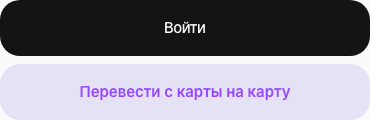
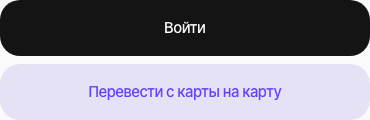
Match secondary button typography and direction background to Figma

Changed region(s): [[0.2081, 0.7, 0.8027, 0.85]]

diff --git a/src/styles.css b/src/styles.css
@@ -587,7 +587,8 @@ body:has(.tabbar:not([hidden])) #app { width:100%; transform:none; }
 .welcome-actions button { height:56px; min-height:56px; border-radius:20px; font:600 15px/18px Inter,sans-serif; }
 .welcome-actions .welcome-login { font:500 15px/18px 'Inter Tight',sans-serif; }
 .welcome-login,.auth-submit { background:#141414; color:white; }
-.welcome-guest { background:#e5e2f6; color:#9747ff; }
+.welcome-guest { background:#e5e2f6; color:#6641fb; }
+.welcome-actions .welcome-guest { font:500 15px/18px 'Inter Tight',sans-serif; }
 .auth-dialog { width:calc(100% - 32px); max-width:370px; padding:24px; border:0; border-radius:28px; }
 .auth-dialog::backdrop { background:rgba(20,20,20,.35); backdrop-filter:blur(6px); }
 .auth-dialog h2 { font-size:24px; padding-right:20px; }
@@ -1332,7 +1333,7 @@ body:has(.card-transfer) .home-indicator { height:calc(32px + env(safe-area-inse
 
 .guest-transfer .guest-transfer-title { display:flex; align-items:center; gap:8px; }
 .guest-direction-label { color:#6641fb; }
-.guest-direction-icon { display:flex; align-items:center; justify-content:center; flex:0 0 24px; width:24px; height:24px; border-radius:8px; background:#e5e2f6; }
+.guest-direction-icon { display:flex; align-items:center; justify-content:center; flex:0 0 24px; width:24px; height:24px; border-radius:8px; background:#f0ecff; }
 .guest-direction-icon img { width:16px; height:16px; transform:scaleY(-1); }
 
 .guest-direction-trigger { display:inline-flex; align-items:center; vertical-align:middle; gap:8px; padding:0; margin:0; background:transparent; font:inherit; line-height:inherit; }
